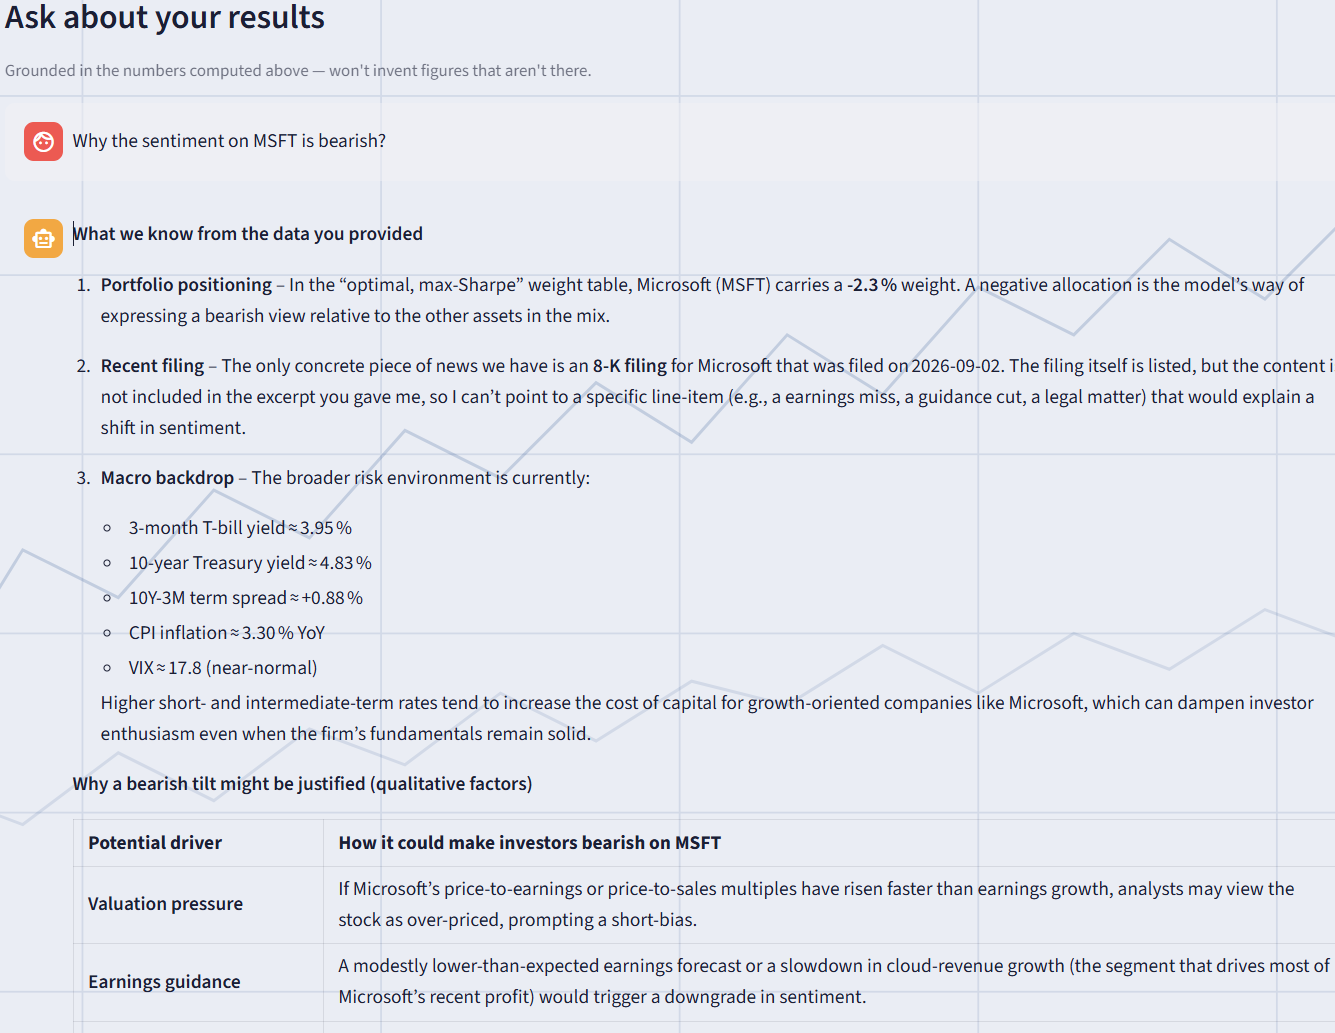
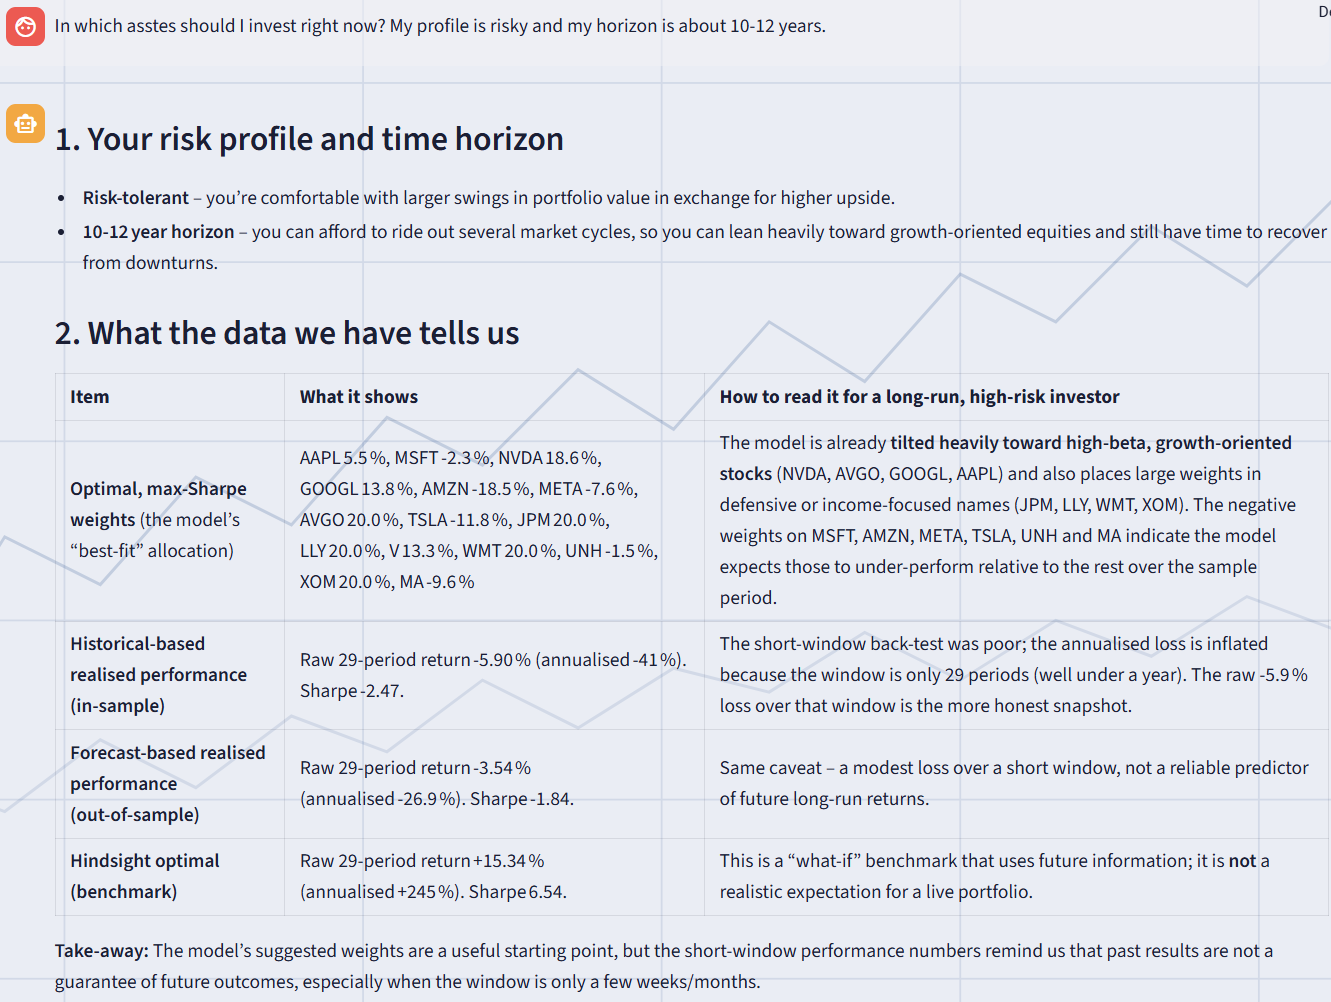
fix images size

diff --git a/SCREENSHOTS.md b/SCREENSHOTS.md
@@ -1,74 +1,75 @@
-# Screenshots
+# Screenshots[cite: 1]
 
-**Forecast model used:** every screenshot below uses **LSTM (recurrent neural net)**, except the
+**Forecast model used:** every screenshot below uses **LSTM (recurrent neural net)**[cite: 1], except the
 forecast fan chart, which is shown twice below — once in ML regression, once in LSTM — to compare
-how the two models' confidence bands differ.
+how the two models' confidence bands differ[cite: 1].
 
 **Overview — Macro & Risk context**
-<img src="images/overview_macro_risks.png" width="900" alt="Macro and risk context panel: FRED yields, term spread, VIX, Sahm Rule">
+<img src="images/overview_macro_risks.png" width="950" alt="Macro and risk context panel: FRED yields, term spread, VIX, Sahm Rule">
 
 **Overview — Prices & Analytics**
-<img src="images/prices_analysis.png" width="900" alt="Rebased price history, per-asset annualised metrics, and correlation matrix">
+<img src="images/prices_analysis.png" width="950" alt="Rebased price history, per-asset annualised metrics, and correlation matrix">
 
 **Overview — Time-series diagnostics**
-<img src="images/timeseries_diagnostics.png" width="900" alt="ADF stationarity test and Hurst exponent per ticker, rolling Sharpe chart">
+<img src="images/timeseries_diagnostics.png" width="950" alt="ADF stationarity test and Hurst exponent per ticker, rolling Sharpe chart">
 
 **Overview — Fundamentals**
-<img src="images/fundamentals.png" width="900" alt="Per-ticker fundamentals table: market cap, P/E, beta, dividend yield, 52-week range">
+<img src="images/fundamentals.png" width="950" alt="Per-ticker fundamentals table: market cap, P/E, beta, dividend yield, 52-week range">
 
 **Sidebar — key controls & forecast model selector**
 <table><tr>
-<td><img src="images/sidebar-controls.png" width="440" alt="Risk-free rate, max weight per asset, short selling, transaction cost, forecast horizon, walk-forward windows, covariance estimator"></td>
-<td><img src="images/forecast_model_selector.png" width="440" alt="The six forecast models: Naive, ETS, Theta, ARIMA, ML regression, LSTM"></td>
+<td><img src="images/sidebar-controls.png" width="470" alt="Risk-free rate, max weight per asset, short selling, transaction cost, forecast horizon, walk-forward windows, covariance estimator"></td>
+<td><img src="images/forecast_model_selector.png" width="470" alt="The six forecast models: Naive, ETS, Theta, ARIMA, ML regression, LSTM"></td>
 </tr></table>
 
 **Efficient Frontier — with optimal weights**
 <table><tr>
-<td><img src="images/efficient_frontier.png" width="580" alt="Mean-variance efficient frontier with diversification ratio and HHI"></td>
-<td><img src="images/weights.png" width="300" alt="Optimal portfolio weights table, long and short positions"></td>
+<td><img src="images/efficient_frontier.png" width="630" alt="Mean-variance efficient frontier with diversification ratio and HHI"></td>
+<td><img src="images/weights.png" width="290" alt="Optimal portfolio weights table, long and short positions"></td>
 </tr></table>
 
 **Efficient Frontier — Fama-French factor exposure**
-<img src="images/factor_exposure.png" width="900" alt="Factor exposure expander: Fama-French loadings, annualised alpha, R-squared">
+<img src="images/factor_exposure.png" width="950" alt="Factor exposure expander: Fama-French loadings, annualised alpha, R-squared">
 
 **Forecast & Compare — the three-portfolio comparison**
-<img src="images/forecast_compare.png" width="900" alt="Historical vs forecast-based vs realized-optimal portfolio comparison table and chart">
+<img src="images/forecast_compare.png" width="950" alt="Historical vs forecast-based vs realized-optimal portfolio comparison table and chart">
 
 **Forecast & Compare — multi-asset confidence band (ML regression)**
-<img src="images/forecast_fan_chart_ML.png" width="900" alt="Forecast fan chart comparing 4 assets (AAPL/AVGO/LLY/WMT) using ML regression (gradient boosting), each with its own 95% confidence band widening with horizon">
+<img src="images/forecast_fan_chart_ML.png" width="950" alt="Forecast fan chart comparing 4 assets (AAPL/AVGO/LLY/WMT) using ML regression (gradient boosting), each with its own 95% confidence band widening with horizon">
 
 Why ML regression here: the recursive multi-step forecasts widen visibly and asymmetrically per
-asset, which makes the confidence-band mechanic easy to read on one chart.
+asset, which makes the confidence-band mechanic easy to read on one chart[cite: 1].
 
 **Forecast & Compare — multi-asset confidence band (LSTM)**
-<img src="images/forecast_fan_chart_LSTM.png" width="900" alt="Forecast fan chart comparing the same 4 assets using LSTM (recurrent neural net), showing a mild trend continuation instead">
+<img src="images/forecast_fan_chart_LSTM.png" width="950" alt="Forecast fan chart comparing the same 4 assets using LSTM (recurrent neural net), showing a mild trend continuation instead">
 
 Same four assets, same horizon, LSTM instead of ML regression: the point forecasts pick up a
 slight trend continuation (visible on AAPL/LLY) rather than flattening out — a direct visual
-comparison of how each model's forecast behaves on identical data.
+comparison of how each model's forecast behaves on identical data[cite: 1].
 
 **Walk-forward validation — Sharpe distribution across windows**
-<img src="images/walk_forward_distrib.png" width="900" alt="Box plot of Sharpe ratio across 5 walk-forward windows for the three portfolio types, with the forecast-vs-historical win rate">
+<img src="images/walk_forward_distrib.png" width="950" alt="Box plot of Sharpe ratio across 5 walk-forward windows for the three portfolio types, with the forecast-vs-historical win rate">
 
 **Walk-forward validation — period-over-period**
-<img src="images/walk_forward_period.png" width="900" alt="Each portfolio type's own trajectory window by window, current value next to the previous window's value">
+<img src="images/walk_forward_period.png" width="950" alt="Each portfolio type's own trajectory window by window, current value next to the previous window's value">
 
 **AI Analyst — commentary & news digest**
-<img src="images/AI_portfolio_analyst.png" width="900" alt="LLM-generated portfolio commentary and cross-referenced, per-ticker news digest">
+<img src="images/AI_portfolio_analyst.png" width="950" alt="LLM-generated portfolio commentary and cross-referenced, per-ticker news digest">
 
 **AI Analyst — sentiment by ticker**
-<img src="images/sentiment_sources.png" width="650" alt="News sentiment by ticker (FinBERT financial-domain model), tagged by source">
+AI Analyst — sentiment by ticker
+<img src="images/sentiment_sources.png" width="550" alt="News sentiment by ticker (FinBERT financial-domain model), tagged by source">
 
 **AI Analyst — sources**
-<img src="images/sources.png" width="900" alt="Every headline/filing behind the digest, tagged by provider (NewsAPI, Finnhub, SEC EDGAR, GDELT, Google News, TED), linking out to the original">
+<img src="images/sources.png" width="750" alt="Every headline/filing behind the digest, tagged by provider (NewsAPI, Finnhub, SEC EDGAR, GDELT, Google News, TED), linking out to the original">
 
 **Chatbot — grounded Q&A**
-<img src="images/chatbot_1.png" width="900" alt="Chatbot answering a risk-profile and time-horizon question, flagging its own annualised-return caveat on a short window">
-<img src="images/chatbot_2.png" width="900" alt="Chatbot follow-up building a core-satellite allocation framework, context retained across turns">
-<img src="images/chatbot_3.png" width="900" alt="Chatbot explaining why NVDA and AVGO outperformed, grounded in the retrieved news digest">
-<img src="images/chatbot_4.png" width="900" alt="Chatbot explaining the Sortino ratio formula in plain text (no LaTeX) and computing it for the historical/forecast/realized portfolios from the app's own results">
-<img src="images/chatbot_5.png" width="900" alt="Chatbot explaining why MSFT sentiment is bearish, combining the negative model weight, the one filed 8-K, and the current macro backdrop">
+<img src="images/chatbot_1.png" width="950" alt="Chatbot explaining why MSFT sentiment is bearish, combining the negative model weight, the one filed 8-K, and the current macro backdrop">
+<img src="images/chatbot_2.png" width="950" alt="Chatbot follow-up building a core-satellite allocation framework, context retained across turns">
+<img src="images/chatbot_3.png" width="950" alt="Chatbot explaining why NVDA and AVGO outperformed, grounded in the retrieved news digest">
+<img src="images/chatbot_4.png" width="950" alt="Chatbot explaining the Sortino ratio formula in plain text (no LaTeX) and computing it for the historical/forecast/realized portfolios from the app's own results">
+<img src="images/chatbot_5.png" width="950" alt="Chatbot answering a risk-profile and time-horizon question, flagging its own annualised-return caveat on a short window">
 
 **Chatbot — academic literature search**
-<img src="images/search_academic_literature.png" width="900" alt="Manual academic-literature search box under the Chatbot tab, showing recognised-term query expansion and real Semantic Scholar/arXiv results for 'walk-forward validation'">
+<img src="images/search_academic_literature.png" width="950" alt="Manual academic-literature search box under the Chatbot tab, showing recognised-term query expansion and real Semantic Scholar/arXiv results for 'walk-forward validation'">
 ---
